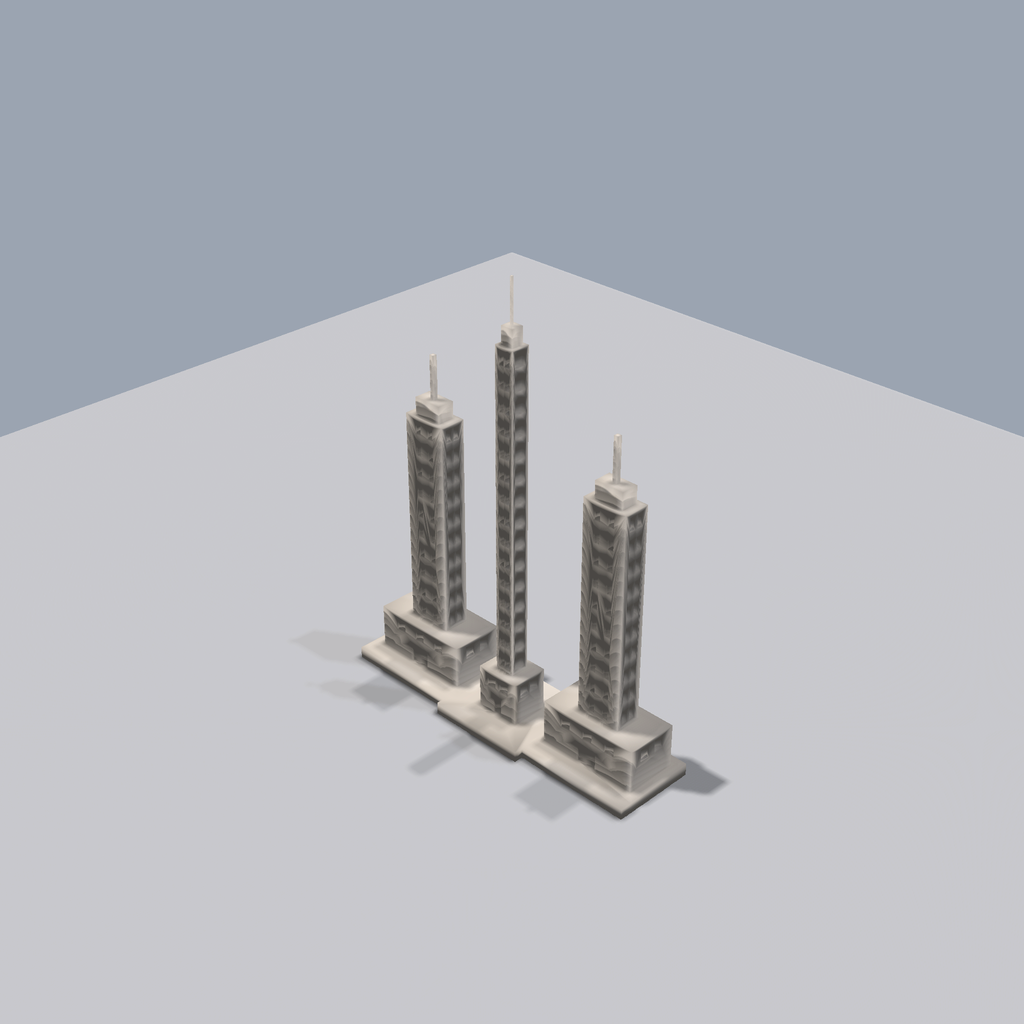
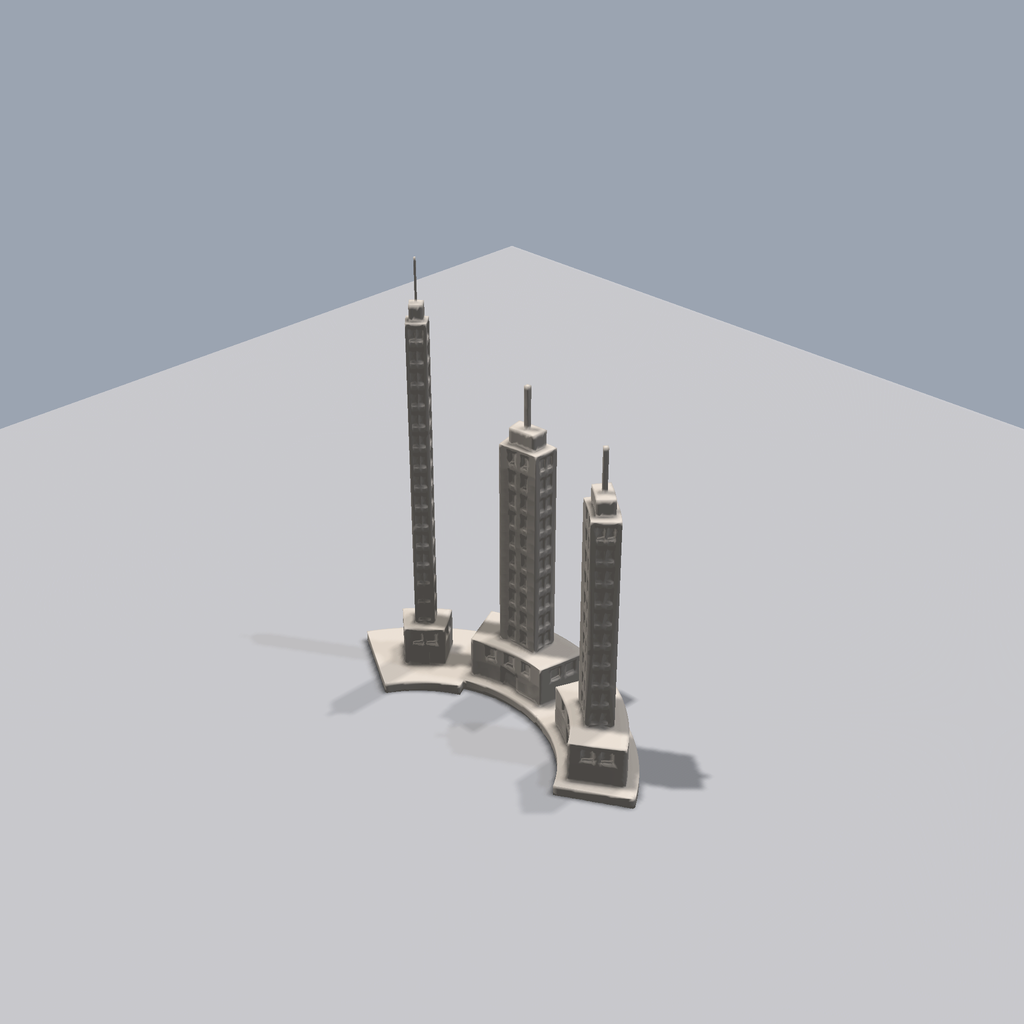
Add vertical-axis bending for curved building complexes
Implements bend_around_z() transform using manifold3d's refine_to_length +
warp_batch to curve buildings around the vertical axis. This dramatically
increases triangle count but produces smooth arcs matching the original
Hotel board game pieces.

- bend_around_z() in geometry/transforms.py: auto-calculates bend radius
  from bounding box width, refines mesh to 1mm edges, applies cylindrical
  coordinate warp via numpy vectorization
- bend_angle field on HotelPreset and ComplexParams
- layout_override on HotelPreset to force row layout for bent complexes
- ComplexBuilder applies bend after combining buildings + base plate
- Boomerang preset: 120-degree arc with row layout override
- L'Etoile preset: 60-degree crescent arc

https://claude.ai/code/session_017p55nmLyAcrMVK4Uhnbg9B

diff --git a/src/hotel_generator/complex/builder.py b/src/hotel_generator/complex/builder.py
@@ -14,7 +14,7 @@ from hotel_generator.config import BuildingParams, BuildingPlacement, ComplexPar
 from hotel_generator.complex.base_plate import complex_base_plate
 from hotel_generator.errors import InvalidParamsError
 from hotel_generator.geometry.booleans import union_all
-from hotel_generator.geometry.transforms import translate, rotate_z
+from hotel_generator.geometry.transforms import translate, rotate_z, bend_around_z
 from hotel_generator.layout.engine import LayoutEngine
 from hotel_generator.layout.placement import compute_lot_bounds
 from hotel_generator.settings import Settings
@@ -72,11 +72,18 @@ class ComplexBuilder:
         strategy = style.preferred_layout_strategy()
         roles = None
         size_hints = None
+        bend_angle = params.bend_angle
         if params.preset is not None:
             from hotel_generator.complex.presets import get_preset
             preset = get_preset(params.preset)
             roles = preset.building_roles
             size_hints = preset.size_hints or None
+            # Preset can override layout strategy (e.g. "row" for bent complexes)
+            if preset.layout_override:
+                strategy = preset.layout_override
+            # Preset bend_angle takes effect if params doesn't override
+            if bend_angle == 0.0 and preset.bend_angle != 0.0:
+                bend_angle = preset.bend_angle
         placements = self.layout_engine.compute_layout(
             params, strategy=strategy, roles=roles, size_hints=size_hints,
         )
@@ -143,6 +150,12 @@ class ComplexBuilder:
         all_parts = positioned + [base]
         combined = union_all(all_parts)
 
+        # 7. Apply vertical bend if requested
+        if bend_angle != 0.0:
+            combined = bend_around_z(combined, bend_angle)
+            # Also bend the base plate separately for export
+            base = bend_around_z(base, bend_angle)
+
         elapsed = time.time() - start_time
 
         return ComplexResult(
@@ -160,6 +173,7 @@ class ComplexBuilder:
                 "seed": params.seed,
                 "strategy": strategy,
                 "preset": params.preset,
+                "bend_angle": bend_angle,
             },
         )
 
@@ -167,6 +181,8 @@ class ComplexBuilder:
         """Apply preset configuration to ComplexParams."""
         from hotel_generator.complex.presets import get_preset
         preset = get_preset(params.preset)
+        # Use params.bend_angle if explicitly set, otherwise use preset's
+        bend = params.bend_angle if params.bend_angle != 0.0 else preset.bend_angle
         return ComplexParams(
             style_name=preset.style_name,
             num_buildings=preset.num_buildings,
@@ -179,4 +195,5 @@ class ComplexBuilder:
             building_spacing=params.building_spacing,
             placements=params.placements,
             preset=params.preset,
+            bend_angle=bend,
         )

diff --git a/src/hotel_generator/geometry/transforms.py b/src/hotel_generator/geometry/transforms.py
@@ -6,6 +6,7 @@ in manifold3d 3.3.2. Always use safe_scale() which passes a 3-vector.
 
 import math
 
+import numpy as np
 from manifold3d import Manifold
 
 
@@ -48,3 +49,65 @@ def safe_scale(
     This function always passes [sx, sy, sz].
     """
     return solid.scale([sx, sy, sz])
+
+
+def bend_around_z(
+    solid: Manifold,
+    bend_angle_degrees: float,
+    max_edge_length: float = 1.0,
+) -> Manifold:
+    """Bend a manifold around the vertical (Z) axis.
+
+    Maps the X dimension to an angular arc and Y to radial distance,
+    creating a curved building. The front face (-Y) ends up on the
+    concave (inner) side of the arc.
+
+    The bend radius is auto-calculated from the solid's X extent and
+    the requested angle so arc length equals the original width.
+
+    Args:
+        solid: The manifold to bend. Should be centered on X.
+        bend_angle_degrees: Total angular span in degrees. Positive =
+            concave side faces -Y (forward). Typical values: 60-180.
+        max_edge_length: Maximum triangle edge length after refinement.
+            Smaller = smoother curve but more triangles. Default 1.0mm.
+
+    Returns:
+        Bent manifold, re-centered so the midpoint of the arc is at
+        the origin in X/Y.
+    """
+    if abs(bend_angle_degrees) < 1e-3:
+        return solid  # no-op for zero bend
+
+    bend_angle = math.radians(bend_angle_degrees)
+
+    # Get bounding box to determine X extent
+    min_x, min_y, min_z, max_x, max_y, max_z = solid.bounding_box()
+    width = max_x - min_x
+    center_x = (min_x + max_x) / 2.0
+
+    if width < 1e-6:
+        return solid
+
+    # bend_radius = arc_length / angle, where arc_length = width
+    bend_radius = width / abs(bend_angle)
+
+    # Refine mesh so the curve is smooth
+    refined = solid.refine_to_length(max_edge_length)
+
+    # Vectorized warp: map X to angle, Y to radial offset
+    def _warp_batch(verts: np.ndarray) -> np.ndarray:
+        x = verts[:, 0]
+        y = verts[:, 1]
+        z = verts[:, 2]
+
+        # Normalized position along width: -0.5 to 0.5
+        t = (x - center_x) / width
+        theta = t * bend_angle
+
+        r = bend_radius + y
+        new_x = r * np.sin(theta)
+        new_y = r * np.cos(theta) - bend_radius
+        return np.column_stack([new_x, new_y, z])
+
+    return refined.warp_batch(_warp_batch)

diff --git a/src/hotel_generator/complex/presets.py b/src/hotel_generator/complex/presets.py
@@ -20,6 +20,8 @@ class HotelPreset:
     num_buildings: int
     building_roles: list[str]
     size_hints: dict[str, dict[str, float]] = field(default_factory=dict)
+    bend_angle: float = 0.0  # Degrees to bend the complex around the vertical axis
+    layout_override: str | None = None  # Force a specific layout strategy
 
     def to_preset_info(self) -> PresetInfo:
         return PresetInfo(
@@ -125,19 +127,20 @@ _register(HotelPreset(
 _register(HotelPreset(
     name="letoile",
     display_name="L'Etoile",
-    description="Row of elegant narrow townhouses forming a unified hotel",
+    description="Curved crescent of elegant narrow townhouses",
     style_name="townhouse",
     num_buildings=4,
     building_roles=["main", "main", "main", "main"],
     size_hints={
         "main": {"width": 0.7, "depth": 1.0, "floors": 1.15},
     },
+    bend_angle=60.0,
 ))
 
 _register(HotelPreset(
     name="boomerang",
     display_name="Boomerang",
-    description="Soaring central skyscraper flanked by lower rectangular wings",
+    description="Curved skyscraper complex swept into a boomerang arc",
     style_name="skyscraper",
     num_buildings=3,
     building_roles=["tower", "wing", "wing"],
@@ -145,6 +148,8 @@ _register(HotelPreset(
         "tower": {"width": 0.35, "depth": 0.35, "floors": 2.5},
         "wing": {"width": 0.8, "depth": 0.5, "floors": 0.85},
     },
+    bend_angle=120.0,
+    layout_override="row",
 ))
 
 

diff --git a/src/hotel_generator/config.py b/src/hotel_generator/config.py
@@ -171,6 +171,7 @@ class ComplexParams(BaseModel):
     building_spacing: float = 8.0
     placements: list[BuildingPlacement] | None = None
     preset: str | None = None
+    bend_angle: float = 0.0  # Degrees to bend the complex around the vertical axis
 
     @model_validator(mode="after")
     def check_num_buildings(self):
